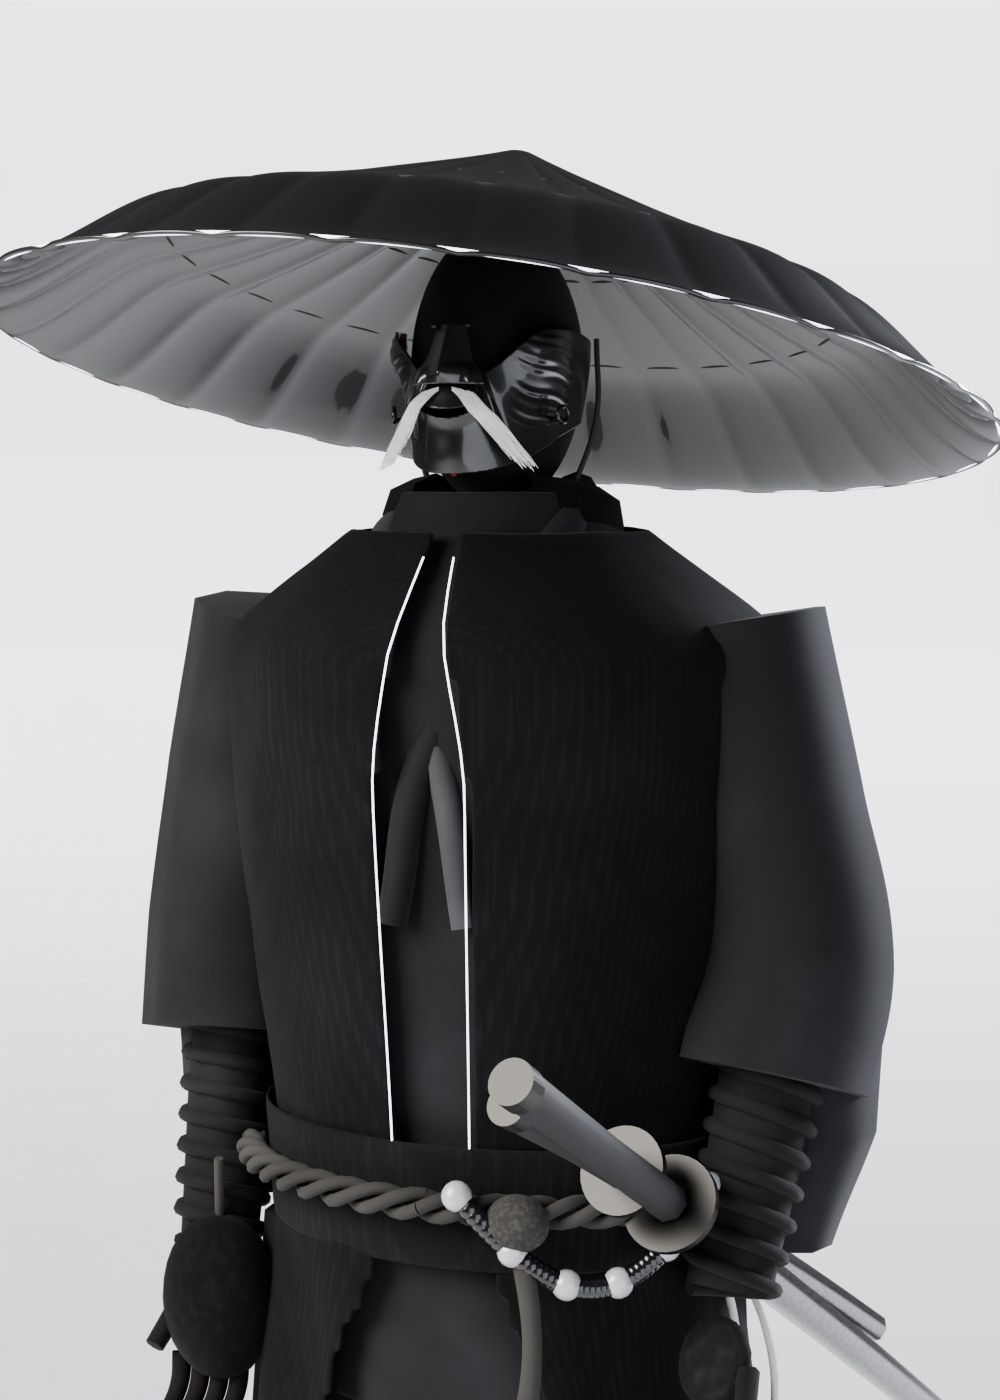
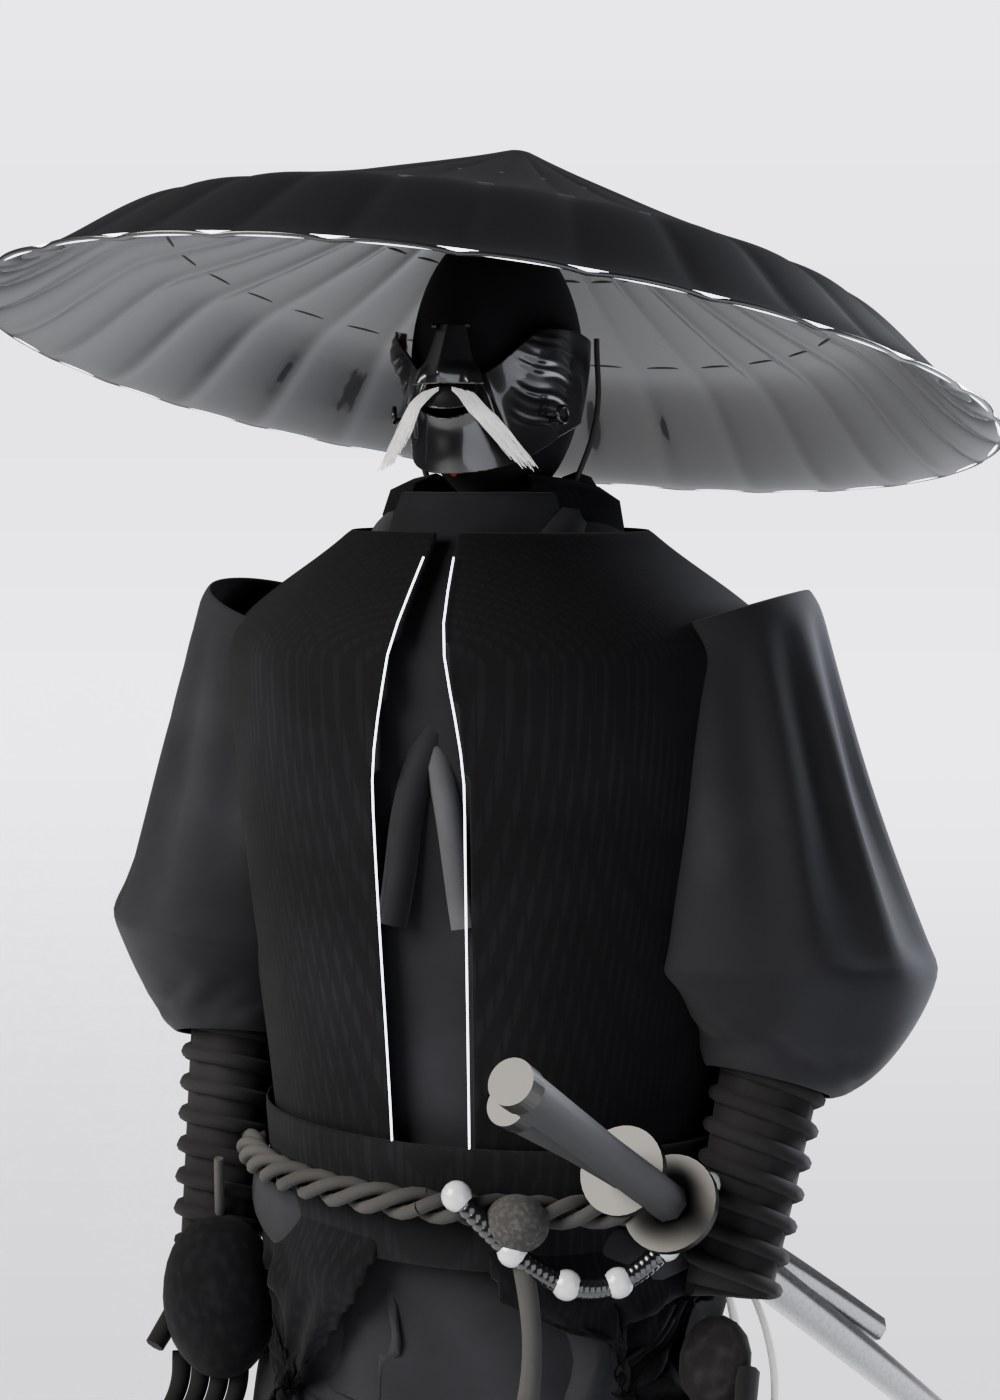
Ronin v3: drape coat, sleeves and trousers with cloth simulation
Trousers and sleeves are simulated against hidden leg and arm colliders,
then the coat is simulated over the trousers, frozen and thickened.

Claude-Session: https://claude.ai/code/session_01VyQ1TRxdpVpQKWUotCWibc

diff --git a/design/models/viewer-ronin/index.html b/design/models/viewer-ronin/index.html
@@ -33,7 +33,7 @@
 <body>
 <div id="load"><div style="text-align:center">LOADING MODEL<b><i id="bar"></i></b></div></div>
 <div class="ui top">
-  <div><div class="title"><span class="dot"></span>Ronin: v2, no armour</div><div class="sub">Built in Blender from a script · static pose</div></div>
+  <div><div class="title"><span class="dot"></span>Ronin: v3, cloth simulated</div><div class="sub">Built in Blender · coat, sleeves and trousers draped by cloth simulation</div></div>
 </div>
 <div class="ui bottom">
   <div class="row">

diff --git a/design/models/ronin.py b/design/models/ronin.py
@@ -59,7 +59,7 @@ def fabric(name, col, pattern=0.0, sheen=0.25, rough=0.9, weave=700):
 VEST = fabric('cloth_vest', (0.006, 0.006, 0.007), 0.35, 0.12)
 KIMONO = fabric('cloth_kimono', (0.016, 0.016, 0.018), 0.0, 0.15, 0.85, 900)
 UNDER = fabric('cloth_under', (0.06, 0.06, 0.064), 0.0, 0.15, 0.85, 1100)
-TROUSER = fabric('cloth_trousers', (0.005, 0.005, 0.006), 0.0, 0.1)
+TROUSER = fabric('cloth_trousers', (0.022, 0.022, 0.024), 0.0, 0.1)
 WRAP = fabric('cloth_wraps', (0.014, 0.013, 0.013), 0.0, 0.1, 0.92, 1400)
 ROPE = fabric('rope', (0.05, 0.048, 0.045), 0.0, 0.1, 0.95, 300)
 OBI = fabric('cloth_obi', (0.01, 0.01, 0.011), 0.25, 0.1)
@@ -116,6 +116,30 @@ def grid_obj(name, F, us, zs, mats, keep=None, closed=False):
     bmesh.ops.delete(bm, geom=[v for v in bm.verts if not v.link_faces], context='VERTS')
     return new_obj(name, bm, mats)
 lin = lambda a, b, n: [a + (b - a) * k / n for k in range(n + 1)]
+CLOTH = []      # (object, pin weight function or vertex index set, thickness, material settings)
+COLLIDERS = []
+def catmull(pts, n):
+    P = [pts[0]] + list(pts) + [pts[-1]]; out = []
+    for i in range(1, len(P) - 2):
+        p0, p1, p2, p3 = P[i - 1], P[i], P[i + 1], P[i + 2]
+        for k in range(n):
+            t = k / n
+            out.append(0.5 * ((2 * p1) + (-p0 + p2) * t + (2 * p0 - 5 * p1 + 4 * p2 - p3) * t * t + (-p0 + 3 * p1 - 3 * p2 + p3) * t ** 3))
+    out.append(pts[-1]); return out
+def mesh_tube(name, pts, radii, mat, ring=36, seg=14, open_ends=True):
+    path = catmull([Vector(p) for p in pts], seg); M = len(path)
+    rad = [radii[min(len(radii) - 1, int(k / (M - 1) * (len(radii) - 1)))] * (1 - ((k / (M - 1) * (len(radii) - 1)) % 1)) +
+           radii[min(len(radii) - 1, int(k / (M - 1) * (len(radii) - 1)) + 1)] * ((k / (M - 1) * (len(radii) - 1)) % 1) for k in range(M)]
+    bm = bmesh.new(); rings = []
+    T0 = (path[1] - path[0]).normalized(); N = T0.cross(Vector((0.0, 0.3, 1.0))).normalized()
+    for k in range(M):
+        T = (path[min(k + 1, M - 1)] - path[max(k - 1, 0)]).normalized()
+        N = (N - T * N.dot(T)).normalized(); B = T.cross(N)
+        rings.append([bm.verts.new(path[k] + (N * math.cos(a) + B * math.sin(a)) * rad[k]) for a in [TAU * q / ring for q in range(ring)]])
+    for k in range(M - 1):
+        for q in range(ring): bm.faces.new((rings[k][q], rings[k][(q + 1) % ring], rings[k + 1][(q + 1) % ring], rings[k + 1][q]))
+    o = new_obj(name, bm, [mat])
+    return o, ring, M
 TAU = 2 * math.pi
 
 # ---------------------------------------------------------------- body shell (under-kimono torso)
@@ -146,10 +170,9 @@ def vest_keep(u, z):
     if abs(a) < 0.16 + 0.32 * smooth((1.0 - z) / 0.2) - 0.08 * smooth((z - 1.3) / 0.15): return False   # open front
     if z < 0.86 and abs(abs(a) - math.pi / 2) < 0.035: return False        # side slits
     if z < hem(u): return False
-    if z < hem(u) + 0.05 and n3(u * 30, z * 30, 2.0) > 0.25: return False   # torn notches along the hem
     return True
-vest = grid_obj('vest', torso_P(0.022, 0.13, 0.98), lin(0, TAU, 140)[:-1], lin(1.5, 0.52, 80), [VEST], vest_keep, closed=True)
-solid(vest, 0.004, 1); wrinkles(vest, 0.007, 0.07)
+vest = grid_obj('vest', torso_P(0.022, 0.26, 0.98), lin(0, TAU, 180)[:-1], lin(1.5, 0.5, 110), [VEST], vest_keep, closed=True)
+CLOTH.append((vest, lambda v, i: 1.0 if v.co.z > 0.9 else 0.0, 0.004))
 # hood / cowl rolled around the neck
 tube('cowl', [Vector((0.075 * math.sin(u), -0.06 * math.cos(u) + 0.01, 1.505 + 0.012 * math.cos(u))) for u in lin(0.5, TAU - 0.5, 10)], [0.028] * 11, VEST, 8, True)
 # a light seam along the vest's front edges (the digital hairline)
@@ -196,8 +219,10 @@ tube('pouch_tie', [pp + Vector((0, 0, 0.07)), pp + Vector((0.005, -0.01, 0.12))]
 LEG = {s: (Vector((s * 0.1, 0.0, 0.92)), Vector((s * 0.135, -0.02, 0.5)), Vector((s * 0.14, 0.0, 0.08))) for s in (-1, 1)}
 for s, (hip, knee, ank) in LEG.items():
     # loose trousers to below the knee, gathered into the wraps
-    pts = [hip, hip.lerp(knee, 0.5), knee, knee.lerp(ank, 0.25)]
-    tr = tube('trousers', pts, [0.105, 0.1, 0.085, 0.06], TROUSER, 12)
+    pts = [hip + Vector((0, 0, 0.04)), hip.lerp(knee, 0.5), knee, knee.lerp(ank, 0.22)]
+    tr, rq, rm = mesh_tube('trousers', pts, [0.11, 0.122, 0.115, 0.058], TROUSER, 40, 12)
+    CLOTH.append((tr, (lambda rq, rm: lambda v, i: 1.0 if (i < rq * 3 or i >= rq * (rm - 2)) else 0.0)(rq, rm), 0.003))
+    col, _, _ = mesh_tube('collider_leg', [hip, knee, ank + Vector((0, 0, 0.05))], [0.085, 0.068, 0.05], TROUSER, 16, 6); COLLIDERS.append(col)
     # kyahan: spiral-wrapped shins
     tube('shin', [knee.lerp(ank, 0.15), knee.lerp(ank, 0.6), ank + Vector((0, 0, 0.03))], [0.057, 0.05, 0.045], WRAP, 10)
     for k in range(9):
@@ -219,9 +244,10 @@ ARM = {'R': (Vector((-0.2, 0.0, 1.43)), Vector((-0.245, 0.02, 1.16)), Vector((-0
 for side, (sh, el, wr) in ARM.items():
     sx = 1 if side == 'L' else -1
     # kimono sleeve: a wide bag hanging from the arm, open at the cuff
-    pts = [sh, sh.lerp(el, 0.5), el, el.lerp(wr, 0.35)]
-    tube('sleeve', pts, [0.07, 0.078, 0.082, 0.08], KIMONO, 12)
-    bag = tube('sleeve_bag', [el + Vector((0, 0.02, -0.02)), el.lerp(wr, 0.3) + Vector((0, 0.05, -0.06)), el.lerp(wr, 0.45) + Vector((0, 0.06, -0.12))], [0.07, 0.07, 0.04], KIMONO, 10)
+    pts = [sh + Vector((-sx * 0.02, 0, 0.0)), sh.lerp(el, 0.5), el, el.lerp(wr, 0.36)]
+    sl, rq, rm = mesh_tube('sleeve', pts, [0.075, 0.1, 0.115, 0.048], KIMONO, 40, 12)
+    CLOTH.append((sl, (lambda rq, rm: lambda v, i: 1.0 if (i < rq * 3 or i >= rq * (rm - 2)) else 0.0)(rq, rm), 0.003))
+    col, _, _ = mesh_tube('collider_arm', [sh, el, wr], [0.05, 0.045, 0.036], KIMONO, 16, 6); COLLIDERS.append(col)
     # forearm wraps
     fa0 = el.lerp(wr, 0.32); d = (wr - fa0).normalized()
     side_v = d.cross(Vector((0, 0, 1))).normalized(); up_v = side_v.cross(d)
@@ -291,6 +317,66 @@ def sword(name, mouth, direction, L_saya, L_tsuka, sc=1.0):
         tube(name + '_tassel', [tip, tip + Vector((R.uniform(-0.008, 0.008), R.uniform(-0.008, 0.008), -0.05))], [0.0012, 0.0012], SILK, 4, True)
 sword('katana', torso_P(0.06, 0, 0)(0.95, 0.99) + Vector((0, -0.01, 0)), Vector((0.14, 0.84, -0.52)), 0.78, 0.26)
 sword('wakizashi', torso_P(0.06, 0, 0)(0.75, 1.02) + Vector((0, -0.01, 0)), Vector((0.16, 0.86, -0.46)), 0.52, 0.17, 0.9)
+
+# ---------------------------------------------------------------- cloth simulation
+def make_collider(c, thick=0.006):
+    c.modifiers.new('collision', 'COLLISION'); c.collision.thickness_outer = thick; c.collision.cloth_friction = 8
+
+def run_cloth(items, collection_for, frames):
+    for o, pin, th in items:
+        vg = o.vertex_groups.new(name='pin')
+        for i, v in enumerate(o.data.vertices):
+            w = pin(v, i)
+            if w > 0: vg.add([i], w, 'REPLACE')
+        cm = o.modifiers.new('Cloth', 'CLOTH'); st = cm.settings
+        st.quality = 10; st.mass = 0.25; st.air_damping = 2.0
+        st.tension_stiffness = st.compression_stiffness = 12; st.shear_stiffness = 6; st.bending_stiffness = 0.15
+        st.vertex_group_mass = 'pin'; st.pin_stiffness = 1.0
+        cs = cm.collision_settings; cs.distance_min = 0.004; cs.collision_quality = 3; cs.use_self_collision = False
+        cs.collection = collection_for(o)
+        cm.point_cache.frame_start = 1; cm.point_cache.frame_end = frames
+    scene.frame_start, scene.frame_end = 1, frames
+    for f in range(1, frames + 1):
+        scene.frame_set(f)
+    dg = bpy.context.evaluated_depsgraph_get()
+    for o, pin, th in items:     # freeze the draped shape
+        me = bpy.data.meshes.new_from_object(o.evaluated_get(dg))
+        old = o.data; o.modifiers.clear(); o.data = me; bpy.data.meshes.remove(old)
+        for p in me.polygons: p.use_smooth = True
+        o.vertex_groups.clear()
+    scene.frame_set(1)
+
+def simulate(frames=int(os.environ.get('CLOTH_FRAMES', 60))):
+    def coll(name, objs):
+        c = bpy.data.collections.new(name); scene.collection.children.link(c)
+        for o in objs: c.objects.link(o)
+        return c
+    for c in COLLIDERS + [kimono]: make_collider(c)
+    legs = coll('leg_colliders', [c for c in COLLIDERS if c.name.startswith('collider_leg')] + [kimono])
+    arms = coll('arm_colliders', [c for c in COLLIDERS if c.name.startswith('collider_arm')])
+    first = [it for it in CLOTH if not it[0].name.startswith('vest')]
+    coat = [it for it in CLOTH if it[0].name.startswith('vest')]
+    run_cloth(first, lambda o: arms if o.name.startswith('sleeve') else legs, frames)
+    print('cloth: trousers and sleeves done', flush=True)
+    trousers = [it[0] for it in first if it[0].name.startswith('trousers')]
+    for t in trousers: make_collider(t, 0.008)
+    over = coll('coat_colliders', trousers + [kimono])
+    run_cloth(coat, lambda o: over, frames)
+    print('cloth: coat done', flush=True)
+    for o, pin, th in CLOTH:
+        for m in list(o.modifiers):
+            if m.type == 'COLLISION': o.modifiers.remove(m)
+        solid(o, th, 1)
+        sm = o.modifiers['solid']; sm.use_even_offset = False; sm.thickness_clamp = 0.5; sm.use_quality_normals = True
+    for c in COLLIDERS: bpy.data.objects.remove(c)
+    for m in list(kimono.modifiers):
+        if m.type == 'COLLISION': kimono.modifiers.remove(m)
+if os.environ.get('NO_CLOTH'):
+    for o, pin, th in CLOTH: solid(o, th, 1)
+    for c in COLLIDERS: bpy.data.objects.remove(c)
+else:
+    simulate()
+scene.frame_set(scene.frame_end)
 
 # ---------------------------------------------------------------- export / render
 os.makedirs(OUT, exist_ok=True)

diff --git a/design/models/README.md b/design/models/README.md
@@ -13,7 +13,7 @@ SAMPLES=128 SHOTS=front,profile,low bl/bin/python menpo.py render export
 | `menpo.py`: menpō with a hinged nose, cheek flanges, cord hooks, a white horsehair moustache, a 3-plate laced throat guard, black lacquer with edge wear and a red lacquer interior | Quality test. Renders in `renders/`. The GLB (about 27 MB with subdivision applied) still needs decimation and texture baking for the web. |
 
 | `samurai_full.py`: the whole figure, built around `menpo.py`. Hooded head with the menpō, a lacquered kasa with a light-seam rim, a laced dō with a chest plate and shoulder straps, five laced kusazuri panels, sode, sleeves with kote splints and elbow plates, gloved hands with tekko, a pleated hakama, waraji sandals, and a katana and wakizashi with silk-wrapped hilts and sageo cords | v1, static ready stance with no rig yet. Renders in `renders/samurai_*`. Viewer in `viewer-samurai/`. |
-| `ronin.py`: **current direction (v2, no armour).** A wandering ronin in layered, worn black cloth: a sleeveless outer coat with a ragged, torn hem and side slits, a kimono with a crossed collar, an obi with a twisted rope belt and a hanging knot, prayer beads, a hip pouch, loose trousers with spiral leg wraps, wrapped forearms, gloved hands, waraji, a wide ribbed lacquered kasa, the menpō (no throat guard), and a daishō through the belt with a sageo and tassel | Static pose with no rig yet. Renders in `renders/ronin_*` are composited onto a pale ink-wash backdrop. Viewer in `viewer-ronin/`. |
+| `ronin.py`: **current direction (v2, no armour).** A wandering ronin in layered, worn black cloth: a sleeveless outer coat with a ragged, torn hem and side slits, a kimono with a crossed collar, an obi with a twisted rope belt and a hanging knot, prayer beads, a hip pouch, loose trousers with spiral leg wraps, wrapped forearms, gloved hands, waraji, a wide ribbed lacquered kasa, the menpō (no throat guard), and a daishō through the belt with a sageo and tassel | v3: the coat, sleeves and trousers are draped by Blender's cloth simulation (trousers and sleeves first, then the coat over them; `CLOTH_FRAMES`, default 60; `NO_CLOTH=1` skips it). Static pose with no rig yet. Renders in `renders/ronin_*` are composited onto a pale ink-wash backdrop. Viewer in `viewer-ronin/`. |
 
 The menpō renders include a hooded head for context; it's excluded from the menpō export and is part of the full figure.
 
